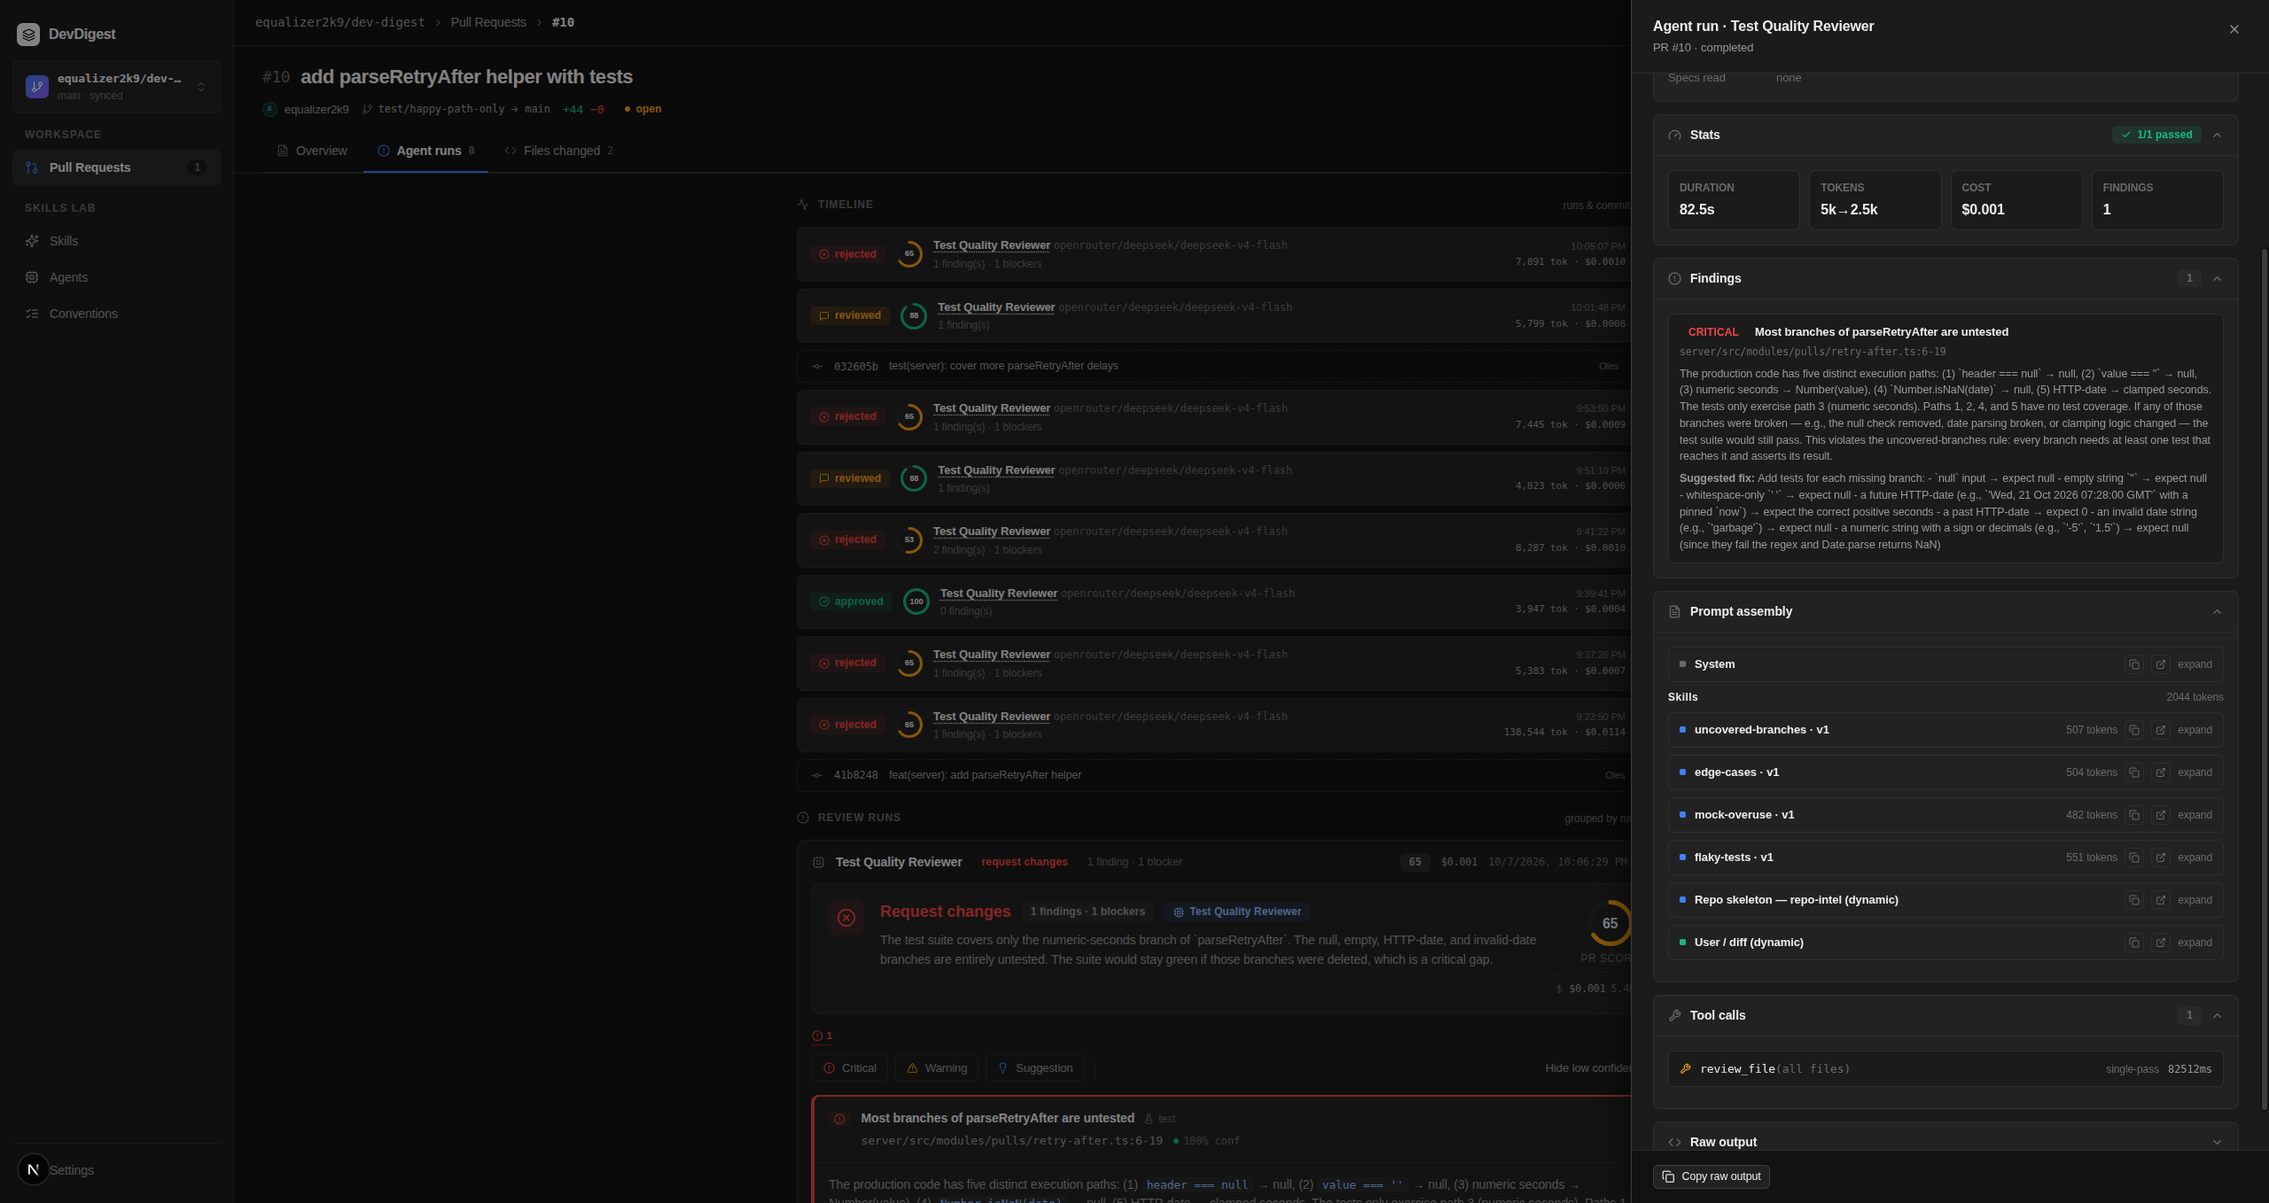
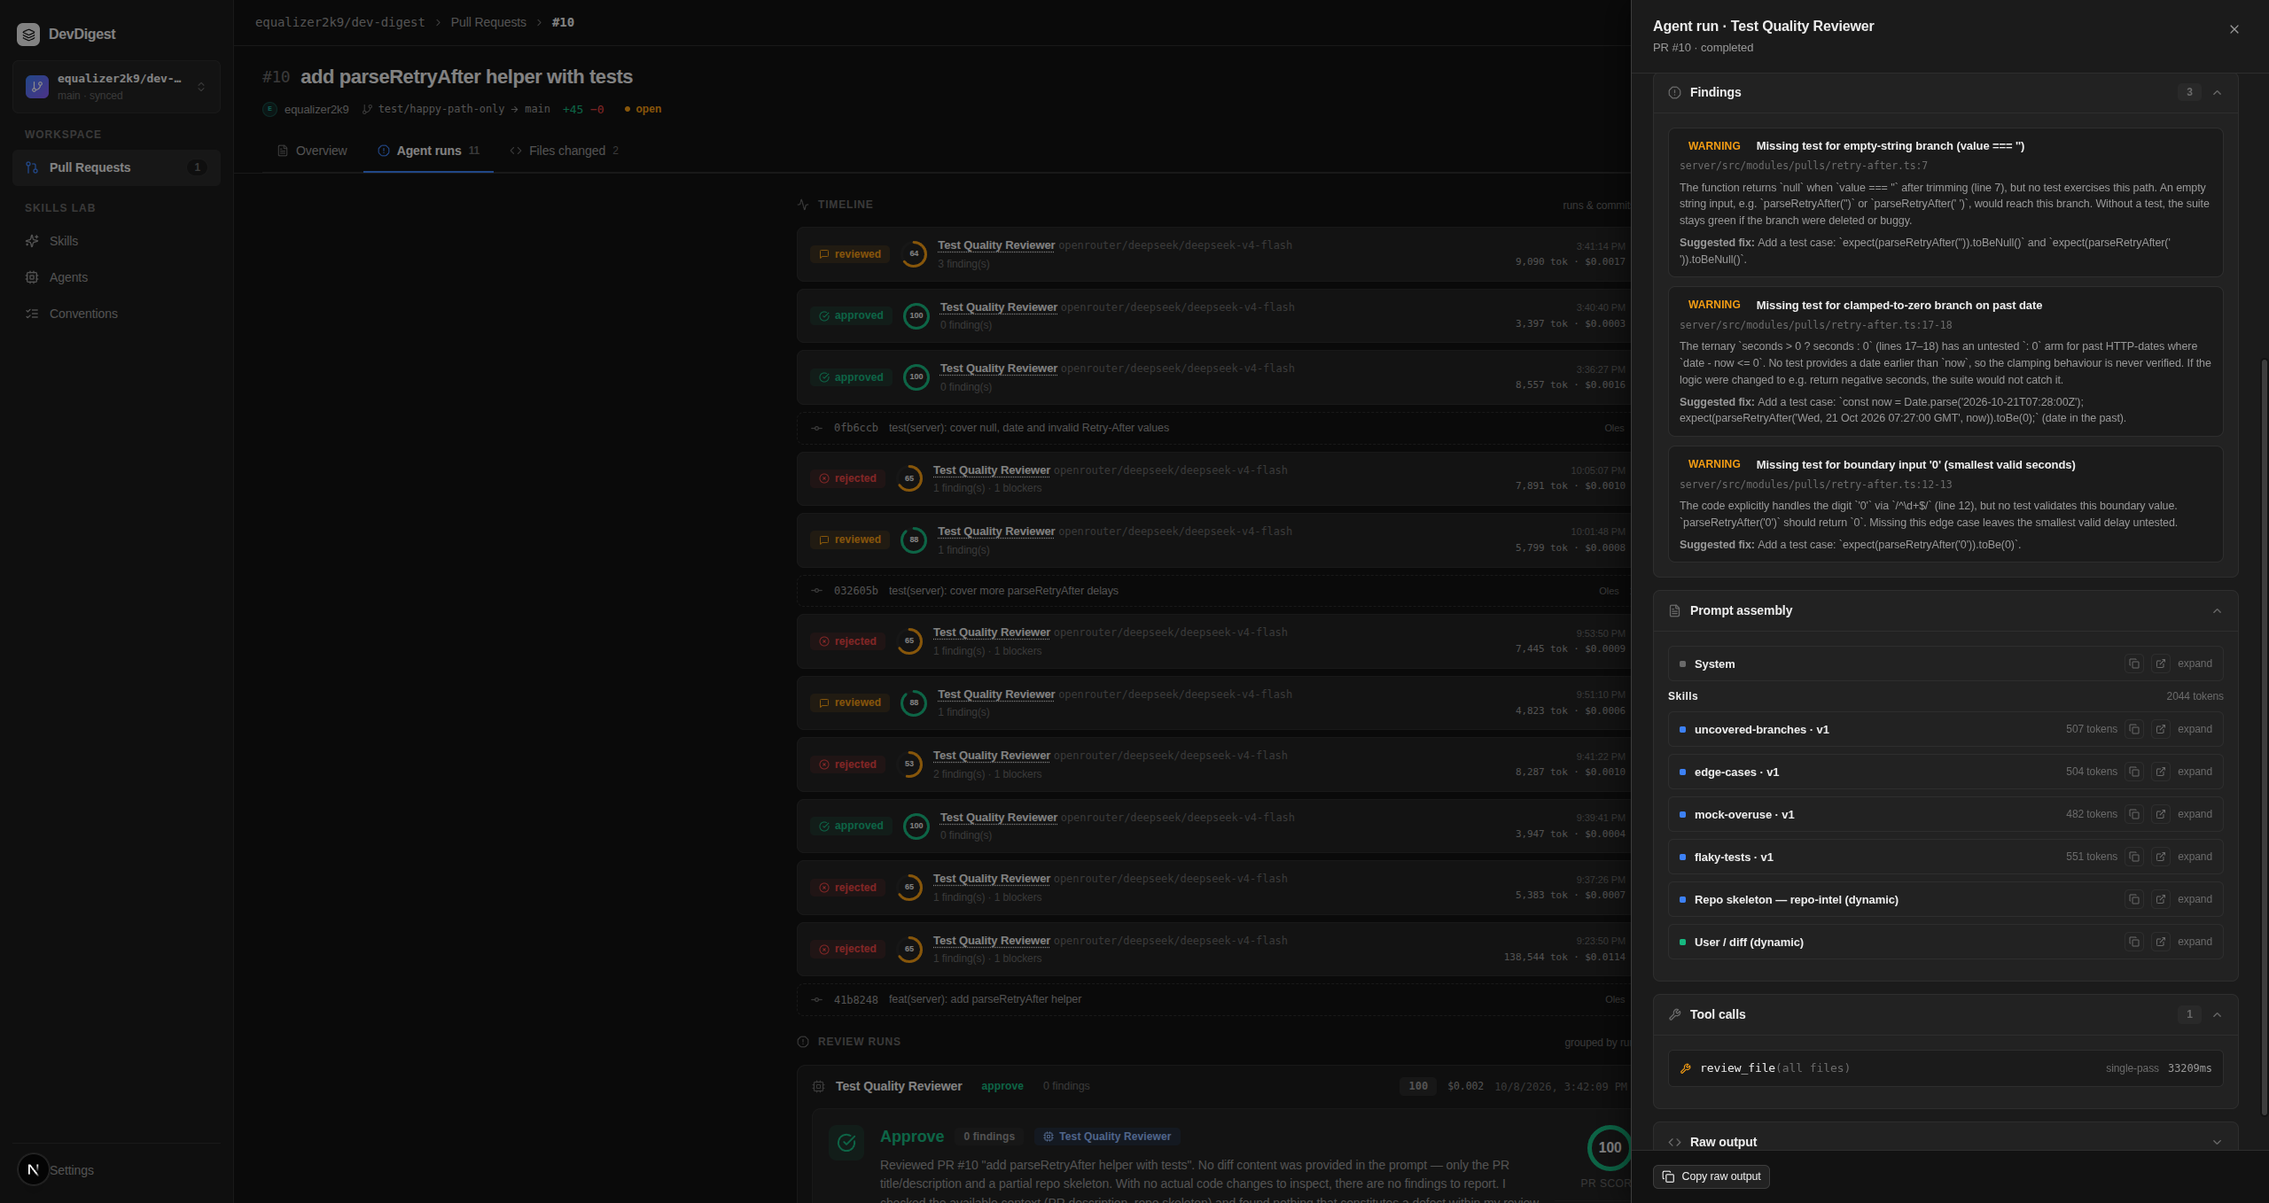
docs(hw2): AC-17 met on a test PR with the obvious branches covered

diff --git a/docs/hw2/experiment-report.md b/docs/hw2/experiment-report.md
@@ -10,21 +10,24 @@
 - Між прогонами A і B у парі змінюється тільки набір увімкнених скілів: той самий агент, та сама
   модель, той самий diff.
 - PR: [#10](https://github.com/equalizer2k9/dev-digest/pull/10) `test/happy-path-only` —
-  `parseRetryAfter` + тест на п'ять щасливих випадків, усі з числовими рядками (head `032605b`); [#9](https://github.com/equalizer2k9/dev-digest/pull/9)
+  `parseRetryAfter` + п'ять тестів, по одному на кожну помітну гілку: відсутній заголовок, число,
+  число з пробілами, майбутня HTTP-дата, сміття (head `0fb6ccb`). Непокритими лишено непомітне:
+  порожній рядок після `trim`, обмеження минулої дати до `0` і межові значення.
+  [#9](https://github.com/equalizer2k9/dev-digest/pull/9)
   `api/route-signature-change` — `PrFile.additions` → `added_lines` лише в серверному контракті.
 
 ## Результати
 
 | PR | Агент | Прогін | Run id | Блок скілів у трасі (токени) | Знахідки | Очікувана знахідка |
 |---|---|---|---|---|---|---|
-| #10 | Test Quality Reviewer | A — скіли вимкнені | `04505739-e572-415c-9749-d0d234f95f50` | немає | 1 — WARNING | **є** (очікувалось: нема) |
-| #10 | Test Quality Reviewer | B — 4 скіли | `414658cb-264e-42e5-9dfc-ab4247d172c7` | є — 2044 (uncovered-branches 507 · edge-cases 504 · mock-overuse 482 · flaky-tests 551) | 1 — CRITICAL | є |
+| #10 | Test Quality Reviewer | A — скіли вимкнені | `588fe0e8-b870-4023-b0e4-7cc5375c7eec` | немає | 0 — approve | нема |
+| #10 | Test Quality Reviewer | B — 4 скіли | `ff26ebe1-2af5-42e0-86ca-d8068c3b16c5` | є — 2044 (uncovered-branches 507 · edge-cases 504 · mock-overuse 482 · flaky-tests 551) | 3 — WARNING | є |
 | #9 | API Contract Reviewer | A — скіли вимкнені | `01e2a66b-cc0b-4387-b729-d1682444c2d4` | немає | 1 — CRITICAL (false positive) | нема |
 | #9 | API Contract Reviewer | B — 4 скіли | `5e3c0877-8c1c-4b15-8ea0-ad883b6795b5` | є — 1841 (breaking-change 491 · response-schema 446 · deprecation-policy 439 · semver-discipline 465) | 5 — CRITICAL (1 false positive) | є |
 
 «Очікувана знахідка» — непокриті гілки для #10, breaking change для #9.
 
-Вхідні токени запиту: #10 A 3266 → B 5383; #9 A 3596 → B 5484.
+Вхідні токени запиту: #10 A 3304 → B 5423; #9 A 3596 → B 5484.
 
 Скріншоти Run Trace (секція Prompt assembly):
 
@@ -35,11 +38,9 @@
 
 ## Що знайшли прогони A (без скілів)
 
-- **#10, Test Quality** — WARNING `server/src/modules/pulls/retry-after.test.ts:1-24`: «Incomplete
-  test coverage for `parseRetryAfter`». Агент і без скіла помітив, що п'ять тестів проходять лише
-  числовий шлях, а `null`/порожній рядок і HTTP-дата з параметром `now` не перевірені. Тобто умова
-  AC-17 «без скіла не флагує» **не виконалась** і на правдоподібному наборі тестів: моделі
-  вистачає ролі «рев'ю тестів» і самого diff, щоб побачити непокриті шляхи.
+- **#10, Test Quality** — знахідок немає, вердикт approve. У summary агент перелічив, що тести
+  покривають відсутній заголовок, секунди, пробіли, HTTP-дату й невалідне значення, і на цьому
+  зупинився: порожній рядок, минулу дату й `'0'` він без скілів не згадав.
 - **#9, API Contract** — CRITICAL `server/src/modules/pulls/routes.ts:304`: false positive (нижче).
   Саме перейменування поля як зміну контракту агент без скілів **не назвав**.
 
@@ -47,30 +48,18 @@
 
 **#10 — Test Quality Reviewer**
 
-- CRITICAL `server/src/modules/pulls/retry-after.ts:6-19` — «Most branches of parseRetryAfter are
-  untested». Перелічує п'ять шляхів функції (`header === null`, `value === ''`, число,
-  `Number.isNaN(date)`, HTTP-дата з обмеженням знизу) і каже, що тести проходять лише третій. У
-  пропонованому виправленні названі межові значення: `null`, `''`, `'   '`, майбутня дата із
-  зафіксованим `now`, дата в минулому → `0`, `'garbage'`, `'-5'`, `'1.5'`.
+- WARNING `server/src/modules/pulls/retry-after.ts:7` — «Missing test for empty-string branch
+  (value === '')»: гілка `return null` для порожнього рядка після `trim` не виконується жодним
+  тестом; пропонує `parseRetryAfter('')` і `parseRetryAfter('   ')`.
+- WARNING `server/src/modules/pulls/retry-after.ts:17-18` — «Missing test for clamped-to-zero
+  branch on past date»: у тернарнику `seconds > 0 ? seconds : 0` гілка `: 0` не покрита, бо жоден
+  тест не дає дату раніше за `now`.
+- WARNING `server/src/modules/pulls/retry-after.ts:12-13` — «Missing test for boundary input '0'»:
+  найменше валідне значення секунд не перевірене.
 
-Різниця з прогоном A: знахідка прив'язана до рядків продакшн-коду, а не до файлу тесту, гілки
-пронумеровані за умовами в коді, межових значень більше (знак, дробове число), severity CRITICAL
-замість WARNING (так велить `uncovered-branches`). Окремої знахідки від `edge-cases` немає —
-межові випадки потрапили в ту саму знахідку.
-
-**#9 — API Contract Reviewer**
-
-Усі чотири справжні знахідки цитують `server/src/vendor/shared/contracts/platform.ts:190` — рядок,
-де `additions` замінено на `added_lines`:
-
-- CRITICAL — breaking change: поле `additions` зникло з `PrFile` без аліасу; клієнт, що читає
-  `files[i].additions`, отримує `undefined` (скіл `breaking-change`).
-- CRITICAL — клієнтська копія контракту не оновлена, серверна й клієнтська схеми розійшлись
-  (`response-schema`).
-- CRITICAL — поле видалено без `@deprecated` і без періоду, коли віддаються обидва
-  (`deprecation-policy`).
-- CRITICAL — breaking change без підняття MAJOR-версії: `package.json` у diff немає
-  (`semver-discipline`).
+Перші дві — непокриті гілки (скіл `uncovered-branches`), третя — межовий випадок (`edge-cases`).
+Номери рядків зсунуті на один-два відносно файлу (порожній рядок — рядок 9, тернарник — 19,
+регулярка — 11), але всі в межах зміненої функції, тож знахідки пройшли перевірку цитат.
 
 ## False positives
 
@@ -116,6 +105,18 @@
   `repo-conventions` тоді мав проміжне тіло), `65c0683c…` (завис, скасований, записаний як `done`
   з 0 знахідок), `14400e61…` (4) і `6ab27432…` (4; п'ять скілів, блок скілів 2855 токенів — він
   був у попередній версії відео).
+- **#10, промпт v3, тест лише на щасливі числові випадки (head `032605b`).**
+  `04505739-e572-415c-9749-d0d234f95f50` (A, 1 WARNING «Incomplete test coverage» на
+  `retry-after.test.ts:1-24`) і `414658cb-264e-42e5-9dfc-ab4247d172c7` (B, 1 CRITICAL на
+  `retry-after.ts:6-19`). Агент і без скілів бачив, що `null`, HTTP-дата й невалідний ввід не
+  протестовані: прогалина була надто очевидна, і скіл лише уточнював знахідку та підвищував
+  severity. Тому PR змінено ще раз — тести тепер покривають кожну помітну гілку (коміт `0fb6ccb`),
+  а непокритим лишилось те, що видно тільки при переліку всіх точок розгалуження й меж. Це вже не
+  «happy-path-only» буквально: у наборі є тести на `null` і на невалідне значення.
+- **#10, перша спроба прогону A на `0fb6ccb`.** `d577ece3-8b38-40f1-92d6-9c76e756fce8` завис на
+  провайдері, через 4 хв був скасований і все одно дописався як `done` (342 с, 0 знахідок, у summary
+  — «No diff content was provided»). Прогін A у таблиці — повторний запуск одразу після цього;
+  обидва дали 0 знахідок.
 - **Промпт v2** (#10: `aa8d9f03…`, `826a66a1…`; #9: `e619d7b1…`, `d15f49d8…`) містив правило «без
   секції Skills — порожній список», тож A давав 0 знахідок за конструкцією. Ці прогони відкинуті
   як нечесний контроль; v3 це правило прибрав.
@@ -123,9 +124,10 @@
 ## Висновок
 
 AC-18 виконано: без скілів API Contract Reviewer не назвав перейменування поля зміною контракту, а
-з чотирма скілами повідомив про breaking change з точним `platform.ts:190`. AC-17 виконано
-наполовину: зі скілами агент називає непокриті гілки й межові значення, але WARNING про неповне
-покриття він видає і без скілів, навіть коли тест виглядає як нормальне покриття, — скіл тут
-підвищує точність і severity, а не вмикає знахідку.
+з чотирма скілами повідомив про breaking change з точним `platform.ts:190`. AC-17 виконано на
+третій версії тестового PR: без скілів Test Quality Reviewer схвалив тести, а зі скілами назвав
+дві непокриті гілки й межове значення `'0'` з `file:line`. На двох попередніх версіях, де
+непокритими були очевидні гілки, агент флагував покриття і без скілів — скіл вмикає знахідку лише
+там, де прогалину не видно без явного переліку гілок і меж.
 Обидва агенти дають один і той самий false positive на `routes.ts:304`, з якого видно, що скіли
 додають правила, але не перевірку фактів.

diff --git a/server/specs/skills-lab.md b/server/specs/skills-lab.md
@@ -246,13 +246,13 @@ all of 6–37.
 - [x] **AC-16** A skill imported through the UI has `source = 'imported_file'`: the row
       `POST /skills/import` writes carries that source, `GET /skills` returns it, and it is the
       source the client labels *Imported*.
-- [ ] **AC-17** With *Test Quality Reviewer* and no skill enabled, a happy-path-only test PR
+- [x] **AC-17** With *Test Quality Reviewer* and no skill enabled, a happy-path-only test PR
       produces no uncovered-branch finding; with `test-quality-rubric` enabled, the same PR
       produces one naming the uncovered branch and a boundary case. Procedure and evidence per
-      §6. — **Half met**, see [experiment report](../../docs/hw2/experiment-report.md): with the
-      skills the finding names the uncovered branches and boundary values, but the agent also
-      raises a coverage WARNING with no skill enabled — on the one-case test and again after
-      the test was widened to five numeric cases.
+      §6. — Evidence: [experiment report](../../docs/hw2/experiment-report.md). Met on the third
+      version of the test PR, whose tests cover every obvious branch (so it is no longer
+      happy-path-only to the letter); on the two earlier versions the agent flagged coverage
+      without any skill.
 - [x] **AC-18** Same shape for *API Contract Reviewer* on a route-signature PR: skipped without
       the skill, breaking change reported with it. — Evidence:
       [experiment report](../../docs/hw2/experiment-report.md).
